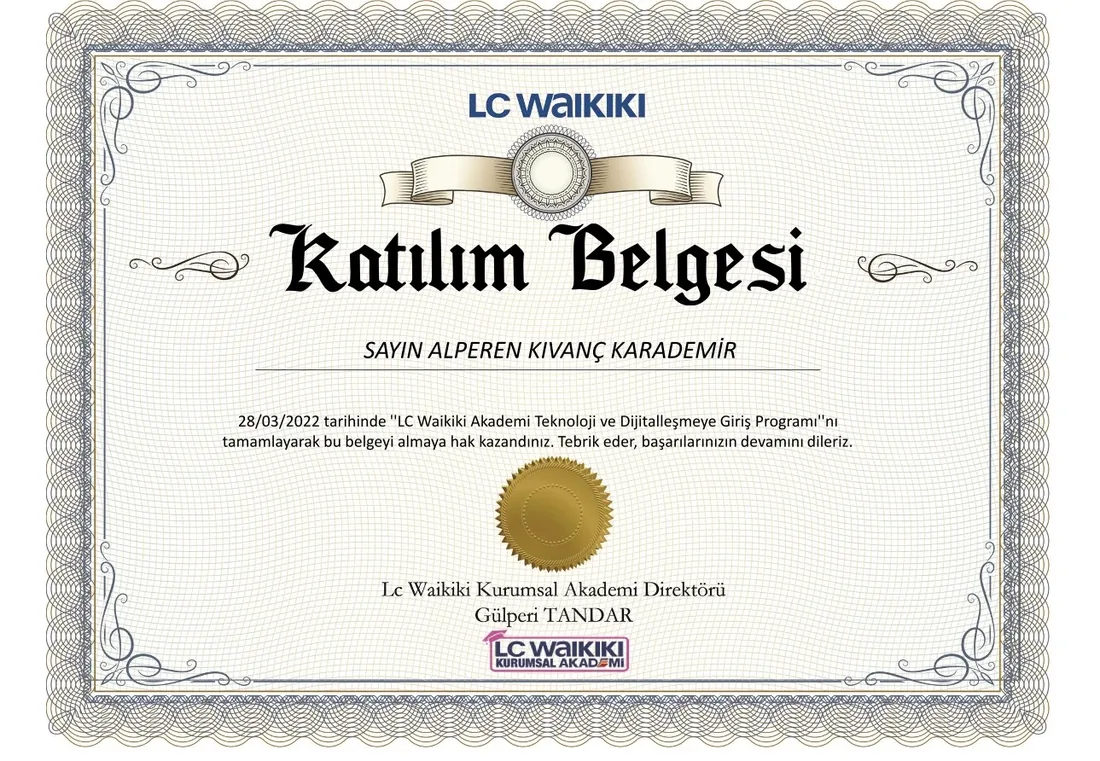
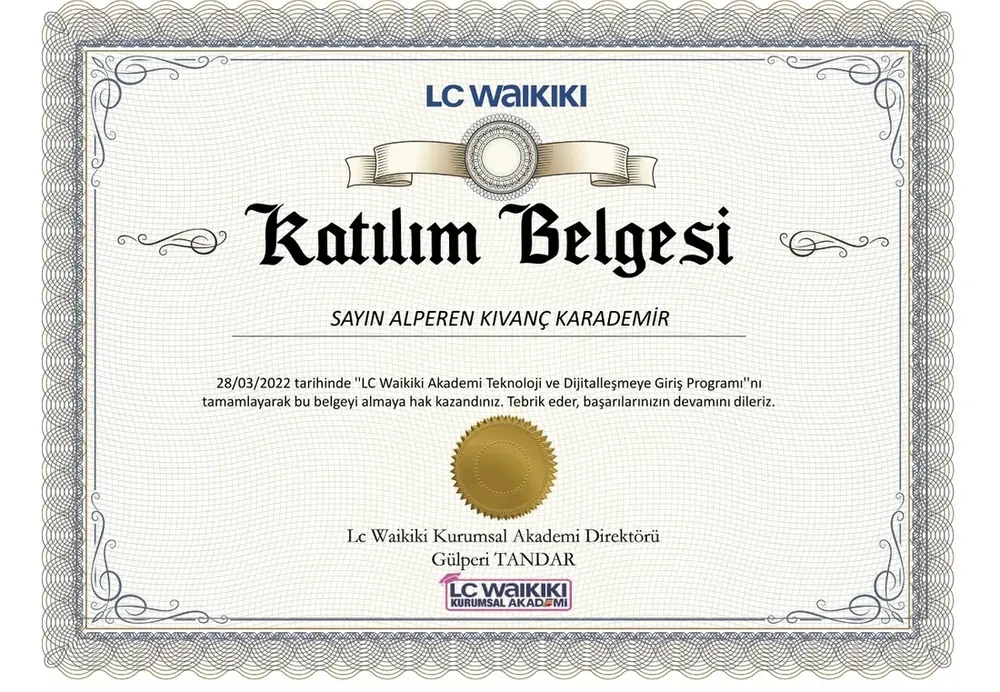
Stajlar kartları telefonda anında dönüyor: boş kalma süresi yok, arka fotoğraflar önce iniyor ve önceden çözülüyor

diff --git a/src/blocks.css b/src/blocks.css
@@ -1197,9 +1197,11 @@
 
 /* ---------- cards that turn over (roles with a back image) ---------------------- */
 /* Each side turns on its own (no shared 3D space, which Safari / iPhone flatten), and the
-   side that shows switches exactly halfway through the turn, so neither browser relies on
-   backface-visibility alone. */
+   side that shows switches when the card is edge-on, so no browser relies on
+   backface-visibility alone. The turn's curve is symmetric, so edge-on is exactly halfway
+   (--flip-t / 2): the new side comes up the moment the old one goes, with no blank card. */
 .role-flipbox {
+  --flip-t: 0.6s;
   position: relative;
   cursor: pointer;
   outline: none;
@@ -1219,8 +1221,8 @@
   -webkit-backface-visibility: hidden;
   backface-visibility: hidden;
   transition:
-    transform 0.9s var(--ease),
-    visibility 0s linear 0.45s,
+    transform var(--flip-t) cubic-bezier(0.65, 0, 0.35, 1),
+    visibility 0s linear calc(var(--flip-t) / 2),
     border-color 0.5s,
     background 0.5s;
 }

diff --git a/src/main.js b/src/main.js
@@ -44,7 +44,15 @@ function preloadImages(bodies) {
   const urls = new Set();
   bodies.forEach((b) => (b.match(/content\/(?:img|logos)\/[^\s|)"']+\.(?:webp|png|jpe?g|svg)/g) || []).forEach((u) => urls.add(u)));
   const queue = [...urls];
+  // the page being read goes first: other pages' photos wait while its own are still
+  // coming in (on a slow phone they'd otherwise share the connection with them)
+  const settled = (img) => new Promise((r) => (img.addEventListener('load', r, { once: true }), img.addEventListener('error', r, { once: true })));
   const next = () => {
+    const busy = [...document.querySelectorAll('#post img')].filter((i) => !i.complete && i.loading !== 'lazy');
+    if (busy.length) {
+      Promise.race([...busy.map(settled), new Promise((r) => setTimeout(r, 4000))]).then(next);
+      return;
+    }
     const src = queue.shift();
     if (!src) return;
     const img = new Image();

diff --git a/src/markdown.js b/src/markdown.js
@@ -179,7 +179,7 @@ function renderRoles(lines) {
     return `<li class="role-flipbox rv" style="--i:${i}" tabindex="0" role="button" aria-pressed="false" aria-label="${esc(t('role.flip', { org }))}">
       <div class="role-flip">
         <div class="role role-face">${face}<span class="role-turn" aria-hidden="true"></span></div>
-        <div class="role-back"><img src="${esc(safeUrl(back))}" alt="${esc(org)}" loading="lazy" decoding="async"></div>
+        <div class="role-back"><img src="${esc(safeUrl(back))}" alt="${esc(org)}" decoding="async"></div>
       </div></li>`;
   });
   return `<ol class="roles${many ? ' roles--grid' : ''}">${items.join('')}</ol>`;

diff --git a/src/post.js b/src/post.js
@@ -119,6 +119,9 @@ export class Post {
         box.classList.toggle('is-flipped', on);
         box.setAttribute('aria-pressed', String(on));
       };
+      // the back photo is decoded now, while the card shows its front, so turning it over
+      // doesn't wait for the picture
+      box.querySelector('.role-back img')?.decode().catch(() => {});
       box.addEventListener('pointerenter', (e) => hover.matches && e.pointerType === 'mouse' && set(true));
       box.addEventListener('pointerleave', (e) => hover.matches && e.pointerType === 'mouse' && set(false));
       box.addEventListener('click', () => set(!box.classList.contains('is-flipped')));
